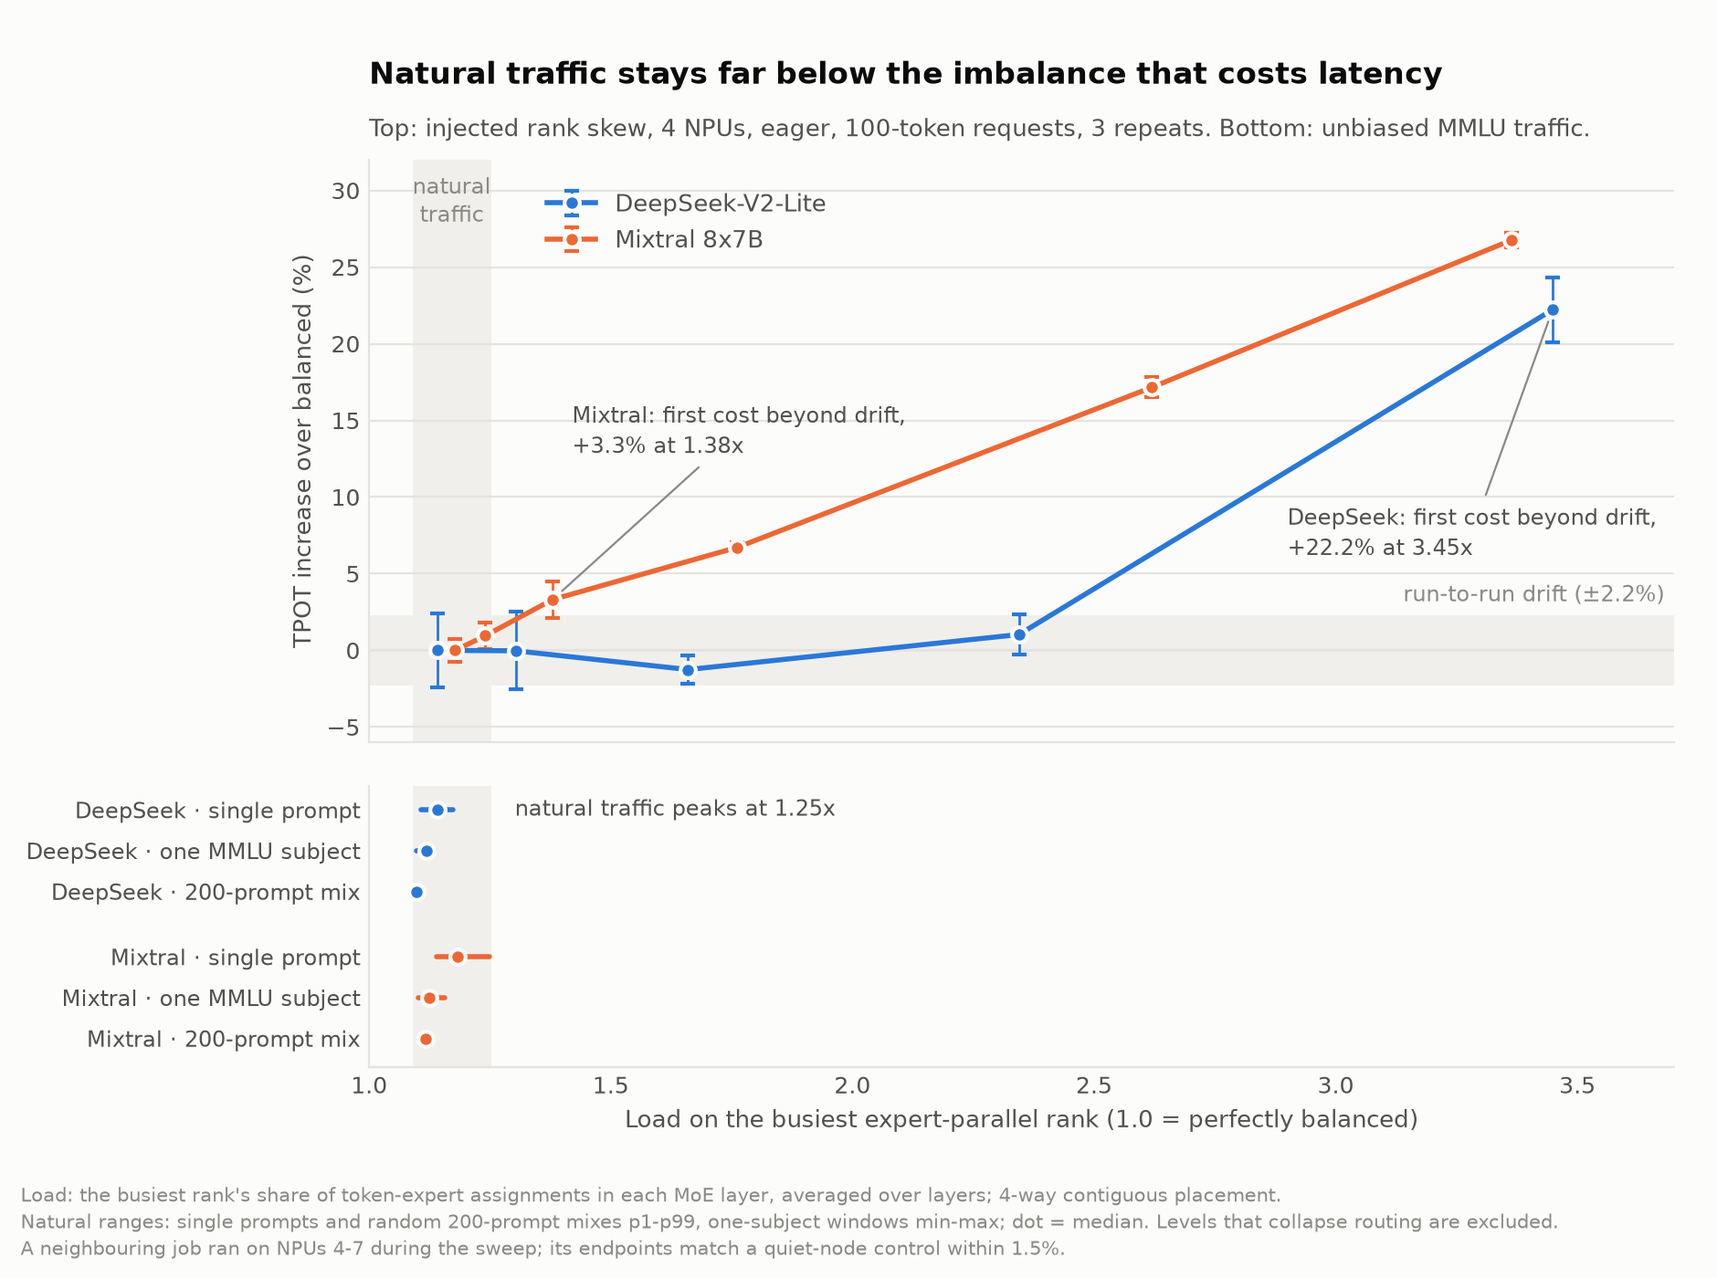
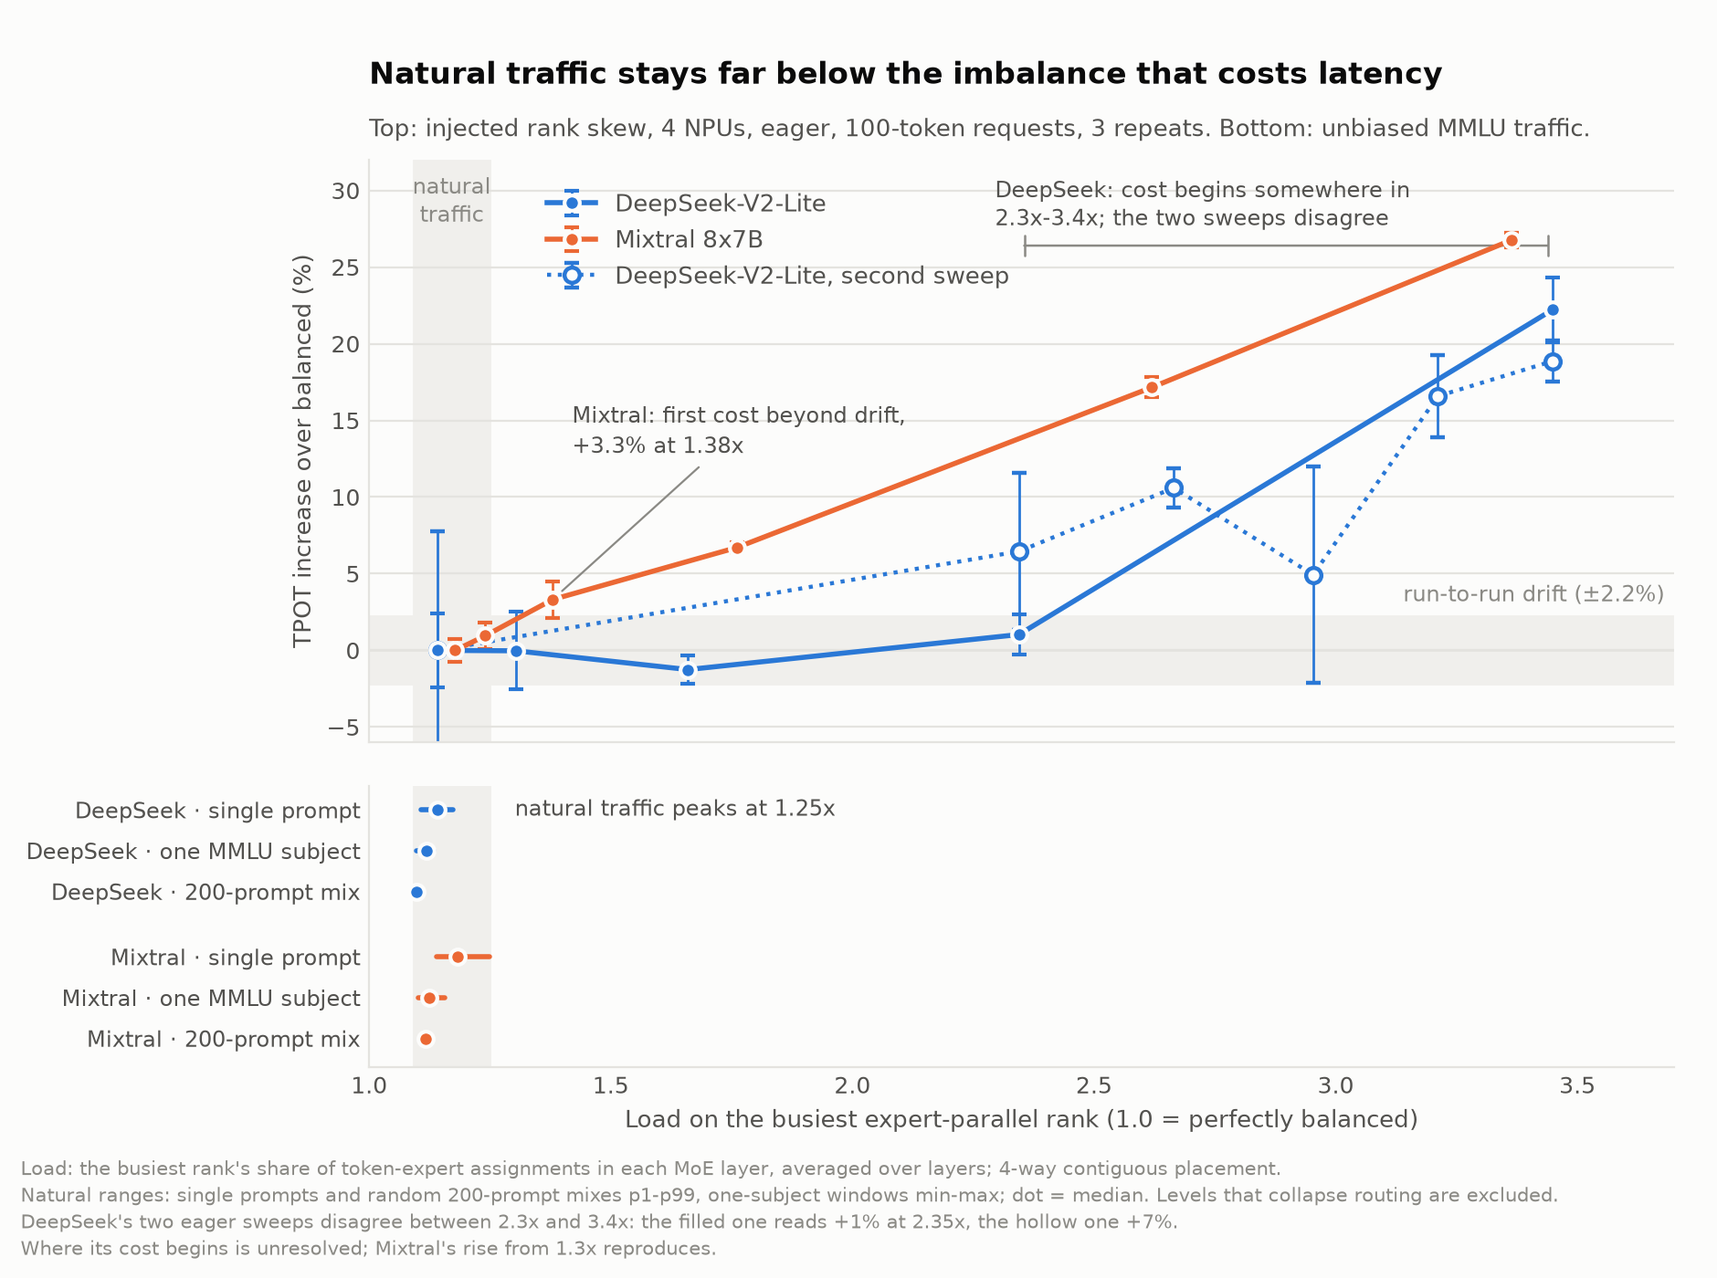
Control the graph-mode sweeps, and withdraw DeepSeek's eager threshold
rbias-graph-threshold re-runs both graph sweeps with the plugin at level 0
and adds a third run filling the gap in DeepSeek's eager curve. The cost
survives the control in graph mode on both models, +22.6 ms per +1x of
busiest-rank load on DeepSeek (t = 6.7).

The threshold run does not reproduce the controlled sweep's flat stretch:
it reads +6.5% at 2.34x where the controlled sweep reads +1.0%, by more
than either one's repeat spread, and is non-monotone above it. The
endpoints agree. So "a threshold, not a slope" is withdrawn - DeepSeek's
cost is large and real by 3.2-3.5x and absent at natural load, but where
it begins is unresolved. The prior question is why the same configuration
gives a repeat spread of 2-5 ms in one run and 9-14 ms in another; the
second ran on a quiet node, so contention does not explain it.

Graph mode's noise sits at the low levels, not the high ones (Mixtral
balanced sd 10.3 ms against 0.4 at its most skewed), which is the
opposite of a contention story and fits the frontend starvation already
recorded for it. Per-level graph numbers below ~2x are not quotable.

impact_map.png now draws both DeepSeek eager sweeps, so the slide carries
the disagreement rather than hiding it.

diff --git a/scripts/plot_findings.py b/scripts/plot_findings.py
@@ -117,7 +117,13 @@ def natural_load(pattern, n_experts, seed=0, draws=1000):
 # rbias-deepseek-001 / rbias-mixtral-001 runs they replace measured against a
 # plugin-free balanced point, which overstated DeepSeek's cost.
 EAGER = ("*rbias-controlled-000", "*rbias-controlled-001")
-GRAPH = ("*rbias-graph-000", "*rbias-graph-001")
+# The graph sweeps re-run with the plugin at level 0 too; rbias-graph-000/001,
+# which they replace, measured against a plugin-free balanced point.
+GRAPH = ("*rbias-graph-threshold-000", "*rbias-graph-threshold-001")
+# A second eager DeepSeek sweep, filling the 2.3-3.4x gap the controlled sweep
+# left. It is a separate run, so it carries its own balanced baseline and its own
+# drift; the two are drawn together rather than pooled.
+EAGER_SECOND = {"deepseek-v2": "*rbias-graph-threshold-002"}
 DRIFT_PCT = 2.2  # largest run-to-run drift between identical points (zero-control level-2 arms)
 
 
@@ -408,7 +414,7 @@ def fig_impact_map(out, store):
         top.errorbar(x, y, yerr=e, ls="-", marker="o", ms=6, lw=2, capsize=3, elinewidth=1,
                      color=MODEL_COLOUR[model], mec=SURFACE, mew=1.5, zorder=3, label=MODEL_LABEL[model])
         first = next((i for i, v in enumerate(y) if v > DRIFT_PCT), None)
-        if first is not None:
+        if first is not None and model not in EAGER_SECOND:
             # Placed in the clear space beside each curve, with a leader to the point.
             spot = {"mixtral": (1.42, 12.5, "bottom"), "deepseek-v2": (2.9, 9.5, "top")}[model]
             top.annotate(f"{MODEL_LABEL[model].split('-')[0].split(' ')[0]}: first cost beyond drift,\n"
@@ -419,6 +425,39 @@ def fig_impact_map(out, store):
         rows.append({"model": model, "levels": levels, "load": [round(v, 3) for v in x],
                      "tpot_pct": [round(v, 2) for v in y], "sd_pct": [round(v, 2) for v in e],
                      "balanced_ms": round(base, 1)})
+    # The second DeepSeek sweep, drawn hollow: same instrument, different run, and
+    # it does not reproduce the first one's flat stretch below 2.4x.
+    for model, pattern in EAGER_SECOND.items():
+        if not list(manifests(pattern)):
+            continue
+        _, by = sweep(pattern)
+        levels = sorted(by)
+        base = float(np.mean(by[levels[0]]))
+        x = [cal[model][lv][0] for lv in levels]
+        y = [100 * (float(np.mean(by[lv])) / base - 1) for lv in levels]
+        e = [100 * float(np.std(by[lv], ddof=1)) / base for lv in levels]
+        top.errorbar(x, y, yerr=e, ls=":", marker="o", ms=6, lw=1.6, capsize=3, elinewidth=1,
+                     color=MODEL_COLOUR[model], mfc=SURFACE, mew=1.6, zorder=2,
+                     label=f"{MODEL_LABEL[model]}, second sweep")
+        rows.append({"model": model, "run": "second", "levels": levels, "load": [round(v, 3) for v in x],
+                     "tpot_pct": [round(v, 2) for v in y], "sd_pct": [round(v, 2) for v in e],
+                     "balanced_ms": round(base, 1)})
+
+    # Where the two sweeps of one model first leave the drift band, as a range.
+    for model in EAGER_SECOND:
+        crossings = [r["load"][next(i for i, v in enumerate(r["tpot_pct"]) if v > DRIFT_PCT)]
+                     for r in rows if r["model"] == model
+                     and any(v > DRIFT_PCT for v in r["tpot_pct"])]
+        if len(crossings) < 2:
+            continue
+        lo_x, hi_x = min(crossings), max(crossings)
+        top.annotate(f"{MODEL_LABEL[model].split('-')[0]}: cost begins somewhere in\n"
+                     f"{lo_x:.1f}x-{hi_x:.1f}x; the two sweeps disagree",
+                     xy=(lo_x - 0.05, 27.2), ha="left", va="bottom",
+                     color=INK2, fontsize=8.5, linespacing=1.3)
+        top.annotate("", xy=(lo_x, 26.4), xytext=(hi_x, 26.4),
+                     arrowprops={"arrowstyle": "|-|,widthA=0.4,widthB=0.4", "color": INK3, "lw": 0.9})
+
     top.legend(frameon=False, fontsize=9.5, labelcolor=INK2, loc="upper left", bbox_to_anchor=(0.12, 0.98))
     top.set_ylim(-6, 32)
 
@@ -442,8 +481,8 @@ def fig_impact_map(out, store):
              "Load: the busiest rank's share of token-expert assignments in each MoE layer, averaged over layers; "
              "4-way contiguous placement.\nNatural ranges: single prompts and random 200-prompt mixes p1-p99, "
              "one-subject windows min-max; dot = median. Levels that collapse routing are excluded.\n"
-             "A neighbouring job ran on NPUs 4-7 during the sweep; its endpoints match a quiet-node control "
-             "within 1.5%.",
+             "DeepSeek's two eager sweeps disagree between 2.3x and 3.4x: the filled one reads +1% at 2.35x, "
+             "the hollow one +7%.\nWhere its cost begins is unresolved; Mixtral's rise from 1.3x reproduces.",
              color=INK3, fontsize=7.5, va="bottom", linespacing=1.4)
     # Explicit margins: tight_layout cannot place shared axes with long tick labels.
     fig.subplots_adjust(left=0.215, right=0.975, top=0.875, bottom=0.165)

diff --git a/docs/router-bias-findings.md b/docs/router-bias-findings.md
@@ -17,13 +17,17 @@ regime, with the instrument present in every arm (the controlled sweep,
 
 - **Mixtral:** +12.0% per +1x of busiest-rank load (+19.9 ms, t = 52), linear
   from the first offset: 165.5 ms balanced to 209.8 ms at 3.36x.
-- **DeepSeek: a threshold, not a slope.** Flat to 2.34x (174.0, 173.9, 171.8,
-  175.8 ms; +1.4 ms per +1x, t = 0.7), then +22% at 3.45x (212.6 ms). The
-  gradual rise first reported below 2.34x was the instrument.
+- **DeepSeek: rising somewhere between 2.3x and 3.4x, shape unresolved.** The
+  controlled sweep reads flat to 2.34x (174.0, 173.9, 171.8, 175.8 ms; +1.4 ms
+  per +1x, t = 0.7) and +22% at 3.45x. A second sweep filling that gap
+  (2026-10-07, below) reads +6.5% already at 2.34x and is non-monotone above it.
+  The two disagree by more than either one's spread, so "a threshold, not a
+  slope" is withdrawn pending replication. The gradual rise first reported
+  *below* 2.34x was the instrument, and that still stands.
 
 Natural traffic reaches 1.09-1.25x on the same load measure, even for a single
 prompt (`docs/figures/impact_map.png`). Mixtral's first cost beyond run-to-run
-drift is +3.3% at 1.38x; DeepSeek's is at 3.45x.
+drift is +3.3% at 1.38x; DeepSeek's lies somewhere in 2.3-3.4x.
 
 **Graph mode also shows the cost** (+13.5 ms per +1x on DeepSeek, +18.1 on
 Mixtral, against superseded eager fits of +13.0 and +19.2). Graph mode is how a
@@ -424,6 +428,67 @@ point, and the two agree at every biased level. The figures use the per-layer
 form throughout. Calibration routed prompt tokens only (`max_new_tokens = 1`);
 the natural captures include 100 generated tokens.
 
+## Graph mode, controlled, and the threshold sweep (2026-10-07)
+
+`rbias-graph-threshold` repeats the graph-mode sweeps with
+`bias_plugin_at_zero` - the graph runs in the Graph mode section above measured
+against a plugin-free balanced point - and adds a third run filling the gap in
+DeepSeek's eager curve. TPOT mean, ms (± sd over 3 repeats):
+
+| Busiest rank | DeepSeek graph | Mixtral graph |
+|---|---|---|
+| balanced | 142.3 ± 8.0 | 146.1 ± 10.3 |
+| 1.24-1.30x | 140.5 ± 3.8 | 143.5 ± 7.2 |
+| 1.38-1.66x | 140.1 ± 4.2 | 157.4 ± 7.4 |
+| 1.76-2.34x | 160.3 ± 18.7 | 152.1 ± 10.7 |
+| 2.62-3.45x | 191.2 ± 13.1 | 187.7 ± 1.9 |
+| 3.36x | | 208.9 ± 0.4 |
+
+- **The cost survives the control on both models**, +22.6 ms per +1x of
+  busiest-rank load on DeepSeek (t = 6.7, and +22.2 with execution order as a
+  covariate).
+- **The noise sits at the *low* levels, not the high ones.** Mixtral's balanced
+  point has sd 10.3 ms while its two most-skewed points have sd 1.9 and 0.4, and
+  its low end is non-monotone (143.5 -> 157.4 -> 152.1). That is the opposite of
+  a contention story, which would scale with the work, and it fits the frontend
+  starvation already recorded for graph mode: when the engine serves faster than
+  the client feeds it, TPOT partly measures the client. **Per-level graph-mode
+  numbers below ~2x should not be quoted**; the slope and the high-skew points
+  are what this run supports.
+- **DeepSeek's graph run also drifted.** TPOT rose with execution order
+  (+1.2 ms per position, t = 2.1), and order correlates 0.68 with the host load
+  average, which climbed from ~23 to ~29 as the neighbouring job got busier. The
+  shuffled rounds kept it off the slope but not out of the variance.
+
+### The eager threshold sweep
+
+`rbias-graph-threshold-002`, eager, offsets 0 / 1 / 1.25 / 1.5 / 1.75 / 2, on a
+**quiet node** - zero foreign NPU processes in all 36 snapshots. The new offsets
+calibrate to 2.67x, 2.95x and 3.21x, inside the gap the controlled sweep left:
+
+| Busiest rank | TPOT (ms) | vs balanced | controlled sweep |
+|---|---|---|---|
+| 1.14x | 176.1 ± 13.7 | - | - |
+| 2.35x | 187.5 ± 9.0 | +6.5% | **+1.0%** |
+| 2.67x | 194.8 ± 2.3 | +10.6% | not swept |
+| 2.95x | 184.8 ± 12.4 | +4.9% | not swept |
+| 3.21x | 205.3 ± 4.8 | +16.6% | not swept |
+| 3.45x | 209.3 ± 2.3 | +18.9% | +22.2% |
+
+- **The two sweeps disagree at 2.34x**, +6.5% against +1.0%, by more than either
+  one's repeat spread. The endpoints agree (+18.9% against +22.2%).
+- **Execution order explains none of it** (-0.01 ms per position, t = 0.0), so
+  the balanced point's wide spread (188.3, 178.7, 161.3) is noise rather than
+  drift, and the quiet node did not make this run tighter than the contended one.
+- **A straight fit gives +13.1 ms per +1x (t = 4.2) with a residual sd of
+  9.9 ms**, and the sequence is non-monotone (2.95x reads below 2.67x). Three
+  repeats are not enough to resolve the shape at this noise level.
+- **What is settled:** DeepSeek's cost is real and large by 3.2-3.5x, and absent
+  at natural load. **What is not:** whether it begins near 2.3x or only above
+  3x, and therefore whether it is a threshold or a slope. Resolving it needs more
+  repeats in 2.3-3.5x, and an explanation for why eager DeepSeek's repeat spread
+  is 2-5 ms in one run and 9-14 ms in another of the same configuration.
+
 ## Inter-token latency capture: usable in aggregate, not in distribution
 
 `benchmark.save_itl` records the gap between consecutive streamed chunks of each
@@ -502,6 +567,9 @@ TPOT: +12.3% per +1x with it, t = 27).
 | `20261006-135100` itl-smoke | ITL capture and zero-bias control, 60 prompts |
 | `20261006-135720` ... `-150633` rbias-zero-control-000..003 | Zero-bias control: 2 models x plugin on/off x levels 0 / 2 x 3 |
 | `20261006-155755`, `-165818` rbias-controlled-000, -001 | Controlled eager sweep: plugin at level 0, DeepSeek 5 / Mixtral 6 offsets x 3 |
+| `20261007-100316` rbias-calibration | Offsets 1.25 / 1.5 / 1.75 on DeepSeek |
+| `20261007-101356`, `-112132` rbias-graph-threshold-000, -001 | Controlled graph sweep, DeepSeek and Mixtral |
+| `20261007-123441` rbias-graph-threshold-002 | Eager DeepSeek threshold sweep, quiet node |
 
 Analysis: `scripts/dose_response.py <grid or experiment name>` for the latency
 fits; `scripts/plot_findings.py` for the figures, which needs the two
@@ -516,9 +584,10 @@ profiled prefill-only points are not used: their profiler windows caught 56 to
 
 ## Open
 
-1. **Re-run the graph-mode sweeps with `bias_plugin_at_zero`.** The eager
-   sweeps are done (the controlled sweep). Graph mode captures the plugin's add
-   into the graph, so its cost there may be small, but it is unmeasured.
+1. **Replicate DeepSeek's eager curve between 2.3x and 3.5x.** Two sweeps
+   disagree there and neither resolves the shape. The prior question is why the
+   same configuration gives a repeat spread of 2-5 ms in one run and 9-14 ms in
+   another; without that, more repeats may not converge.
 2. **Scrape `vllm:inter_token_latency_seconds` per point.** Client-side ITLs are
    sound in the mean but their distribution is client delivery at this
    concurrency, so within-request spikes are still unmeasured. The server-side

diff --git a/docs/briefing-2026-10-09.md b/docs/briefing-2026-10-09.md
@@ -1,6 +1,6 @@
 # Briefing: detecting impactful expert load imbalance
 
-Status as of 2026-10-07, for the 2026-10-09 update. Figures are in
+Status as of 2026-10-07 (evening), for the 2026-10-09 update. Figures are in
 [figures/](figures/) and are regenerated by `scripts/plot_findings.py`. The
 details behind every number are in [status.md](status.md) and
 [router-bias-findings.md](router-bias-findings.md).
@@ -30,9 +30,11 @@ requests, 3 repeats per point in shuffled order.
    one rank's experts takes the busiest rank from 1.14x to 3.45x while every
    expert stays live. Hollow points collapse routing and are excluded.
 4. **Strong skew costs latency** (`dose_response.png`):
-   - Mixtral: linear, +12% TPOT per +1x of load (t = 52), 165.5 to 209.8 ms.
-   - DeepSeek: flat to 2.34x, then +22% at 3.45x.
-   - Graph mode shows the cost too.
+   - Mixtral: linear, +12% TPOT per +1x of load (t = 52), 165.5 to 209.8 ms,
+     and it reproduces in graph mode.
+   - DeepSeek: large and real by 3.2-3.5x; the shape below that is unresolved,
+     since two eager sweeps disagree at 2.34x (+1.0% against +6.5%).
+   - Graph mode shows the cost on both models with the instrument controlled.
 5. **The key slide: impact map** (`impact_map.png`). Cost and natural traffic on
    one load axis:
    - Natural traffic, even a single prompt at p99, peaks at 1.25x. Topic-shifted
@@ -47,15 +49,24 @@ requests, 3 repeats per point in shuffled order.
    - A neighbouring job on the node costs ~3% TPOT.
 7. **Open questions and next steps** (below).
 
+**On DeepSeek's threshold, be careful.** The morning sweep read flat to 2.34x
+and the evening one +6.5% there, on a quiet node, with repeat spreads of 2-5 ms
+and 9-14 ms respectively for the same configuration. Say that the cost is large
+by 3.2x and absent at natural load, and that where it begins is being
+replicated. The impact map draws both sweeps, so the slide shows the
+disagreement rather than hiding it.
+
 ## Questions to expect
 
 - **Why is DeepSeek a threshold and Mixtral a slope?** Unknown. The mechanism is
   not established on either model, and two per-step accounts were retracted.
   Fact we can state: a full-batch decode step is the same length at every eager
   offset on both models, so the cost sits in other kinds of step.
-- **Is this just eager mode?** No. Graph mode shows the cost (+13.5 ms per +1x on
-  DeepSeek, +18.1 on Mixtral). Caveat: its balanced points ran without the
-  plugin, so the graph-mode numbers are not yet controlled.
+- **Is this just eager mode?** No. The graph-mode sweeps were re-run on
+  2026-10-07 with the instrument in every arm and the cost survives (+22.6 ms
+  per +1x on DeepSeek, t = 6.7). Caveat: their repeat spread is largest at the
+  *low* levels, which fits frontend starvation - a fast engine the client cannot
+  feed measures the client - so quote the slope, not the per-level numbers.
 - **Was the node quiet?** No. An unrelated job ran on NPUs 4-7 during the
   controlled sweep. It does not line up with level, and the endpoints match a
   quiet-node control within 1.5%.
@@ -73,7 +84,11 @@ requests, 3 repeats per point in shuffled order.
 
 ## Open, in progress
 
-- Controlled graph-mode sweep, with the plugin in every arm.
-- Locating DeepSeek's threshold, with offsets inside 2.34x-3.45x.
+- Replicating DeepSeek's eager curve in 2.3-3.5x, where two sweeps disagree,
+  and explaining why the same configuration's repeat spread varies 2-5x between
+  runs.
+- Detection: per-request routing at each skew level is capturing now, which
+  gives the detection rate the screen is still missing
+  ([detection-findings.md](detection-findings.md)).
 - Mechanism: why the cost appears in below-full-batch and prefill-carrying
   steps, not in saturated decode.

diff --git a/docs/status.md b/docs/status.md
@@ -30,14 +30,15 @@ cannot surface.
 **Update 2026-10-06/07: it does surface once the skew is strong enough.** A
 graded, injected router bias that keeps every expert live raises 100-token TPOT
 on 4 NPUs, measured with the instrument in every arm. Mixtral is linear from the
-first offset, +12% per +1x of busiest-rank load (t = 52). DeepSeek has a
-threshold instead: flat to 2.34x, +22% at 3.45x. Graph mode shows the cost too,
-though its balanced points are not yet controlled. **The mechanism is not
-established on either model**: a saturated decode step is the same length at
-every eager offset, which withdrew the GEMM account, and step wall still misses
-TPOT by -45% to +19%. Natural traffic reaches 1.09-1.25x even for a single
-prompt, below the lowest skew that costs anything (Mixtral, +3.3% at 1.38x), so
-the null above is a statement about realistic skew, not a property of the stack.
+first offset, +12% per +1x of busiest-rank load (t = 52), and reproduces in graph
+mode. DeepSeek's cost is large and real by 3.2-3.5x but its shape below that is
+unresolved: two eager sweeps disagree at 2.34x (+1.0% against +6.5%), by more
+than either one's repeat spread. **The mechanism is not established on either
+model**: a saturated decode step is the same length at every eager offset, which
+withdrew the GEMM account, and step wall still misses TPOT by -45% to +19%.
+Natural traffic reaches 1.09-1.25x even for a single prompt, below the lowest
+skew that costs anything (Mixtral, +3.3% at 1.38x), so the null above is a
+statement about realistic skew, not a property of the stack.
 `docs/figures/impact_map.png` puts both on one axis.
 
 Scope of the claim: DeepSeek-V2-Lite-Chat (64 experts, top-6) at 2 to 8-way
@@ -142,6 +143,11 @@ touches hardware, which goes through `./nrun`.
 - **Window-averaged trace figures.** A profiled window's step mix moves with the
   swept parameter, so averages over it compare different workloads. Split steps
   and match them on batch and prefill content (`scripts/step_profile.py`).
+- **Graph-mode per-level numbers below ~2x busiest-rank load.** Their repeat
+  spread is largest at the *low* levels (Mixtral balanced sd 10.3 ms against 0.4
+  at its most skewed), which fits frontend starvation rather than contention: a
+  fast engine the client cannot feed measures the client. The slopes and the
+  high-skew points are sound.
 - **An instrument that is absent in the control arm.** The router-bias plugin is
   not installed at strength 0, so its own cost rides on every effect measured
   against a balanced point: 10.0 ms per token on eager DeepSeek, nothing on

diff --git a/CLAUDE.md b/CLAUDE.md
@@ -106,8 +106,10 @@ Established 2026-10-02; see `docs/imbalance-findings.md` for the numbers.
 - **Strong injected skew does cost latency** (2026-10-06/07,
   `docs/router-bias-findings.md`). With `imbalance.method = "router_bias"` on
   4 NPUs and the plugin in every arm, 100-token TPOT on Mixtral rises linearly,
-  +19.9 ms (+12%) per +1x busiest-rank load. DeepSeek is flat to 2.34x and +22%
-  at 3.45x, a threshold rather than a slope. Natural traffic reaches 1.09-1.25x
+  +19.9 ms (+12%) per +1x busiest-rank load, in eager and graph mode alike.
+  DeepSeek's cost is large by 3.2-3.5x but its shape below that is unresolved:
+  two eager sweeps disagree at 2.34x (+1.0% against +6.5%), by more than either
+  one's spread, so do not quote a DeepSeek threshold. Natural traffic reaches 1.09-1.25x
   even per single prompt, where the null above still holds. The *mechanism* is
   not established on either model, and two accounts have already been retracted.
 - **Measure natural rank load per layer.** The validation summary's
